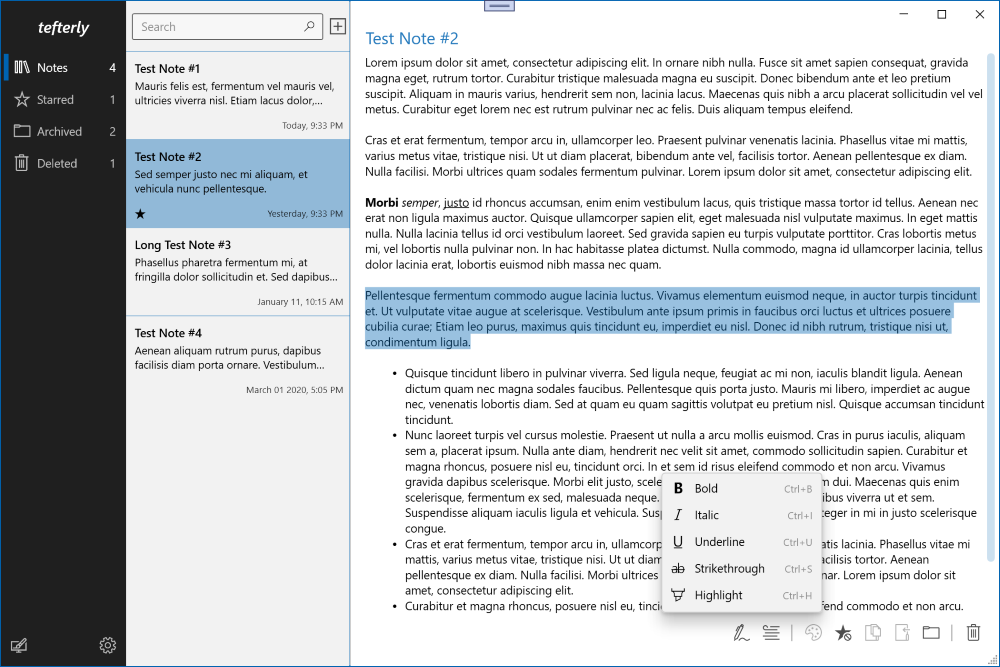
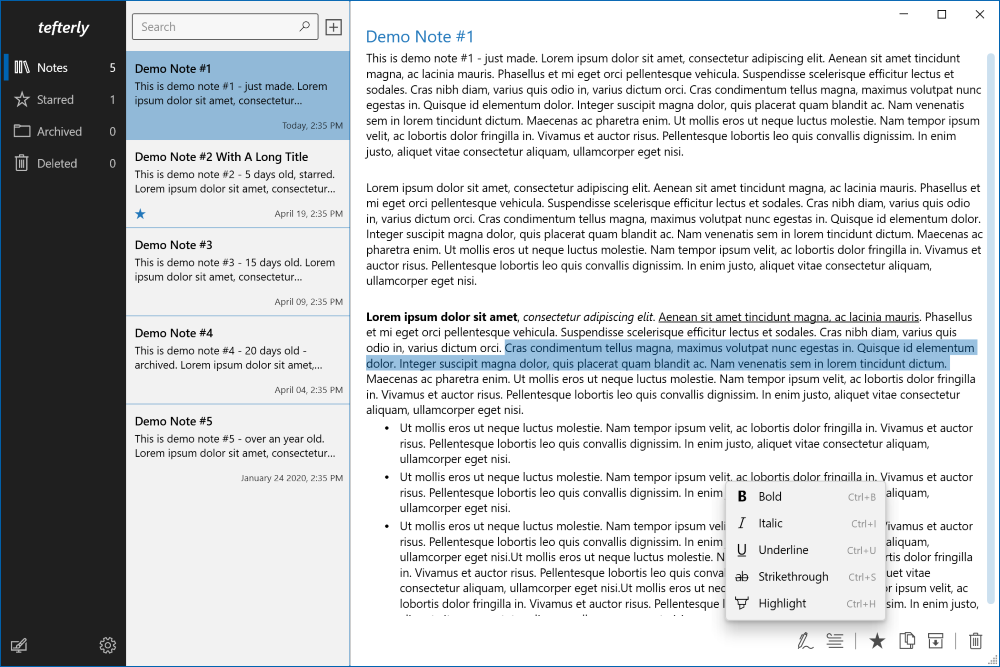
All note actions implemented

diff --git a/Modules/Tefterly.Modules.Note/Views/Note.xaml b/Modules/Tefterly.Modules.Note/Views/Note.xaml
@@ -211,8 +211,17 @@
 
             <ui:AppBarSeparator Margin="-12,0,-9,0" />
 
-            <Button ToolTip="Delete note" Style="{DynamicResource ChromelessButton}">
-                <ui:FontIcon Glyph="&#xE74D;" />
+            <Button ToolTip="{Binding CurrentNote.IsDeleted, Converter={converters:BooleanToIconStateConverter TrueValue='Restore note', FalseValue='Delete note'}}"
+                    Style="{DynamicResource ChromelessButton}" Command="{Binding DeleteNoteCommand}">
+                <ui:PathIcon Data="{Binding CurrentNote.IsDeleted, Converter={converters:BooleanToIconStateConverter
+                    TrueValue='M17.5 3.75 16.25 3.75 16.25 18.125C16.25 18.3854 16.2012 18.6296 16.1035 18.8574C16.0059 19.0853 15.8724 19.2839 15.7031 19.4531C15.5339 19.6224 15.3353 19.7559 15.1074 19.8535C14.8796 19.9512 14.6354 20 14.375 20L4.375 20C4.1146 20 3.8704 19.9512 3.6426 19.8535C3.4147 19.7559 3.2161 19.6224 3.0469 19.4531C2.8776 19.2839 2.7441 19.0853 2.6465 18.8574C2.5488 18.6296 2.5 18.3854 2.5 18.125L2.5 3.75 1.25 3.75 1.25 2.5 6.25 2.5 6.25 1.25C6.25 1.0742 6.2826.9115 6.3477.7617C6.4128.612 6.5023.4801 6.6162.3662C6.7301.2523 6.862.1628 7.0117.0977C7.1615.0326 7.3242 0 7.5 0L11.25 0C11.4258 0 11.5885.0326 11.7383.0977C11.888.1628 12.0199.2523 12.1338.3662C12.2477.4801 12.3372.612 12.4023.7617C12.4674.9115 12.5 1.0742 12.5 1.25L12.5 2.5 17.5 2.5ZM7.5 2.5 11.25 2.5 11.25 1.25 7.5 1.25ZM15 3.75 3.75 3.75 3.75 18.125C3.75 18.2943 3.8118 18.4408 3.9355 18.5645C4.0592 18.6882 4.2057 18.75 4.375 18.75L14.375 18.75C14.5443 18.75 14.6908 18.6882 14.8145 18.5645C14.9382 18.4408 15 18.2943 15 18.125ZM9.4 7 6 11 13 11ZM8 14H11V11L8 11ZZ',
+                    FalseValue='M17.5 3.75 16.25 3.75 16.25 18.125C16.25 18.3854 16.2012 18.6296 16.1035 18.8574C16.0059 19.0853 15.8724 19.2839 15.7031 19.4531C15.5339 19.6224 15.3353 19.7559 15.1074 19.8535C14.8796 19.9512 14.6354 20 14.375 20L4.375 20C4.1146 20 3.8704 19.9512 3.6426 19.8535C3.4147 19.7559 3.2161 19.6224 3.0469 19.4531C2.8776 19.2839 2.7441 19.0853 2.6465 18.8574C2.5488 18.6296 2.5 18.3854 2.5 18.125L2.5 3.75 1.25 3.75 1.25 2.5 6.25 2.5 6.25 1.25C6.25 1.0742 6.2826.9115 6.3477.7617C6.4128.612 6.5023.4801 6.6162.3662C6.7301.2523 6.862.1628 7.0117.0977C7.1615.0326 7.3242 0 7.5 0L11.25 0C11.4258 0 11.5885.0326 11.7383.0977C11.888.1628 12.0199.2523 12.1338.3662C12.2477.4801 12.3372.612 12.4023.7617C12.4674.9115 12.5 1.0742 12.5 1.25L12.5 2.5 17.5 2.5ZM7.5 2.5 11.25 2.5 11.25 1.25 7.5 1.25ZM15 3.75 3.75 3.75 3.75 18.125C3.75 18.2943 3.8118 18.4408 3.9355 18.5645C4.0592 18.6882 4.2057 18.75 4.375 18.75L14.375 18.75C14.5443 18.75 14.6908 18.6882 14.8145 18.5645C14.9382 18.4408 15 18.2943 15 18.125ZM7.5 16.25 6.25 16.25 6.25 6.25 7.5 6.25ZM10 16.25 8.75 16.25 8.75 6.25 10 6.25ZM12.5 16.25 11.25 16.25 11.25 6.25 12.5 6.25Z'}}" />
+            </Button>
+
+            <Button ToolTip="Permanently delete note"
+                    Visibility="{Binding CurrentNote.IsDeleted, Converter={StaticResource BooleanToVisibilityConverter}}"
+                    Style="{DynamicResource ChromelessButton}" Command="{Binding PermanentlyDeleteNoteCommand}">
+                <ui:PathIcon Data="M17.5 3.75 16.25 3.75 16.25 18.125C16.25 18.3854 16.2012 18.6296 16.1035 18.8574C16.0059 19.0853 15.8724 19.2839 15.7031 19.4531C15.5339 19.6224 15.3353 19.7559 15.1074 19.8535C14.8796 19.9512 14.6354 20 14.375 20L4.375 20C4.1146 20 3.8704 19.9512 3.6426 19.8535C3.4147 19.7559 3.2161 19.6224 3.0469 19.4531C2.8776 19.2839 2.7441 19.0853 2.6465 18.8574C2.5488 18.6296 2.5 18.3854 2.5 18.125L2.5 3.75 1.25 3.75 1.25 2.5 6.25 2.5 6.25 1.25C6.25 1.0742 6.2826.9115 6.3477.7617C6.4128.612 6.5023.4801 6.6162.3662C6.7301.2523 6.862.1628 7.0117.0977C7.1615.0326 7.3242 0 7.5 0L11.25 0C11.4258 0 11.5885.0326 11.7383.0977C11.888.1628 12.0199.2523 12.1338.3662C12.2477.4801 12.3372.612 12.4023.7617C12.4674.9115 12.5 1.0742 12.5 1.25L12.5 2.5 17.5 2.5ZM7.5 2.5 11.25 2.5 11.25 1.25 7.5 1.25ZM15 3.75 3.75 3.75 3.75 18.125C3.75 18.2943 3.8118 18.4408 3.9355 18.5645C4.0592 18.6882 4.2057 18.75 4.375 18.75L14.375 18.75C14.5443 18.75 14.6908 18.6882 14.8145 18.5645C14.9382 18.4408 15 18.2943 15 18.125ZM13.25 16 12 16 6 6 7.25 6ZZM7.25 16 6 16 12 6 13.25 6Z" />
             </Button>
 
         </ui:SimpleStackPanel>

diff --git a/Modules/Tefterly.Modules.Notes/Views/Notes.xaml b/Modules/Tefterly.Modules.Notes/Views/Notes.xaml
@@ -32,7 +32,7 @@
                     <StackPanel Orientation="Horizontal" VerticalAlignment="Bottom"
                                 HorizontalAlignment="Left" Grid.Column="0" Grid.Row="2">
                         <ContentControl Visibility="{Binding IsStarred, Converter={StaticResource BooleanToVisibilityConverter}}"
-                                        IsHitTestVisible="False" Margin="0,0,9,0">
+                                        IsHitTestVisible="False" Margin="0,0,9,0" Foreground="{DynamicResource SystemControlHighlightListAccentVeryHighBrush}">
                             <ui:FontIcon Glyph="&#xE735;" FontSize="13"/>
                         </ContentControl>
                         <Rectangle Width="11" Height="11" Margin="0,1,0,0"

diff --git a/Modules/Tefterly.Modules.Note/ViewModels/NoteViewModel.cs b/Modules/Tefterly.Modules.Note/ViewModels/NoteViewModel.cs
@@ -1,4 +1,5 @@
-using Prism.Commands;
+using ModernWpf.Controls;
+using Prism.Commands;
 using Prism.Events;
 using Prism.Mvvm;
 using Prism.Regions;
@@ -48,6 +49,8 @@ namespace Tefterly.Modules.Note.ViewModels
         public DelegateCommand MarkNoteAsStarredCommand { get; set; }
         public DelegateCommand DuplicateNoteCommand { get; set; }
         public DelegateCommand MarkNoteAsArchivedCommand { get; set; }
+        public DelegateCommand DeleteNoteCommand { get; set; }
+        public DelegateCommand PermanentlyDeleteNoteCommand { get; set; }
 
         public NoteViewModel(INoteService noteService, IEventAggregator eventAggregator)
         {
@@ -56,9 +59,11 @@ namespace Tefterly.Modules.Note.ViewModels
             _eventAggregator = eventAggregator;
 
             // attach all commands
-            MarkNoteAsStarredCommand = new DelegateCommand(() => ChangeNotebookCategory(NotebookCategories.Starred));
+            MarkNoteAsStarredCommand = new DelegateCommand(() => ExecuteChangeNotebookCategory(NotebookCategories.Starred));
             DuplicateNoteCommand = new DelegateCommand(() => ExecuteDuplicateNoteCommand());
-            MarkNoteAsArchivedCommand = new DelegateCommand(() => ChangeNotebookCategory(NotebookCategories.Archived));
+            MarkNoteAsArchivedCommand = new DelegateCommand(() => ExecuteChangeNotebookCategory(NotebookCategories.Archived));
+            DeleteNoteCommand = new DelegateCommand(() => ExecuteChangeNotebookCategory(NotebookCategories.Deleted));
+            PermanentlyDeleteNoteCommand = new DelegateCommand(() => ExecutePermanentlyDeleteNoteCommand());
         }
 
         private void LoadNote(Guid noteId)
@@ -81,7 +86,7 @@ namespace Tefterly.Modules.Note.ViewModels
                 ShowNoteComponents = false;
         }
 
-        private void ChangeNotebookCategory(Guid notebookCategory)
+        private void ExecuteChangeNotebookCategory(Guid notebookCategory)
         {
             if (CurrentNote == null || notebookCategory == null)
                 return;
@@ -102,6 +107,31 @@ namespace Tefterly.Modules.Note.ViewModels
 
             if (_noteService.DuplicateNote(CurrentNote.Id) == true)
                 _eventAggregator.GetEvent<NoteChangedEvent>().Publish(String.Empty);
+        }
+
+        private async void ExecutePermanentlyDeleteNoteCommand()
+        {
+            if (CurrentNote == null)
+                return;
+
+            ContentDialog dialog = new ContentDialog
+            {
+                Title="Permanently delete note",
+                PrimaryButtonText="Yes", 
+                CloseButtonText ="No",
+                DefaultButton = ContentDialogButton.Close,
+                Content="Are you sure you want to delete this note?"
+                            + Environment.NewLine
+                            + Environment.NewLine
+                            + "This action cannot be undone."
+            };
+
+            ContentDialogResult result = await dialog.ShowAsync();
+            if (result == ContentDialogResult.Primary)
+            {
+                if (_noteService.DeleteNote(CurrentNote.Id) == true)
+                    _eventAggregator.GetEvent<NoteChangedEvent>().Publish(String.Empty);
+            }
         }
 
         #region Navigation Logic

diff --git a/Modules/Tefterly.Modules.Notes/ViewModels/NotesViewModel.cs b/Modules/Tefterly.Modules.Notes/ViewModels/NotesViewModel.cs
@@ -73,6 +73,7 @@ namespace Tefterly.Modules.Notes.ViewModels
         private void LoadNoteList(Guid notebookGategory)
         {
             NoteList = new ObservableCollection<Business.Models.Note>(_noteService.GetNotes(notebookGategory));
+           
             if (NoteList.Count > 0)
             {
                 int selectedNoteIndex = NoteList.IndexOf(SelectedNote);
@@ -84,12 +85,8 @@ namespace Tefterly.Modules.Notes.ViewModels
             else
                 SelectedNote = null; // no notes found in the selected category
 
-            // update the default message if no notes found 
-            ShowAddNoteButton = false;
             ShowNotesNotFoundPanel = (NoteList.Count == 0);
-
-            if (SelectedNotebookCategoryId == NotebookCategories.Default)
-                ShowAddNoteButton = true;
+            ShowAddNoteButton = (SelectedNotebookCategoryId == NotebookCategories.Default);
         }
 
         private void ExecuteNavigation(Business.Models.Note selectedNote)
@@ -111,6 +108,7 @@ namespace Tefterly.Modules.Notes.ViewModels
         public void OnNavigatedTo(NavigationContext navigationContext)
         {
             SelectedNotebookCategoryId = navigationContext.Parameters.GetValue<Guid>("id");
+            SelectedNote = null; // reset selected note on category change
 
             LoadNoteList(SelectedNotebookCategoryId);
         }

diff --git a/Tefterly/ViewModels/MainWindowViewModel.cs b/Tefterly/ViewModels/MainWindowViewModel.cs
@@ -3,7 +3,6 @@ using Prism.Mvvm;
 using Prism.Regions;
 using System;
 using Tefterly.Business;
-using Tefterly.Core;
 using Tefterly.Core.Commands;
 
 namespace Tefterly.ViewModels
@@ -17,18 +16,22 @@ namespace Tefterly.ViewModels
             set { SetProperty(ref _title, value); }
         }
 
+        // services
         private readonly IRegionManager _regionManager;
 
-        private DelegateCommand<NavigationItem> _globalNavigateCommand;
-        public DelegateCommand<NavigationItem> GlobalNavigateCommand => _globalNavigateCommand ?? (_globalNavigateCommand = new DelegateCommand<NavigationItem>(ExecuteGlobalNavigateCommand));
+        // commands
+        public DelegateCommand<NavigationItem> GlobalNavigateCommand { get; set; }
 
         public MainWindowViewModel(IRegionManager regionManager, IApplicationCommands applicationCommands)
         {
             _regionManager = regionManager;
 
+            // attach all commands
+            GlobalNavigateCommand = new DelegateCommand<NavigationItem>((NavigationItem) => ExecuteGlobalNavigateCommand(NavigationItem));
+
             applicationCommands.NavigateCommand.RegisterCommand(GlobalNavigateCommand);
         }
-
+        
         private void ExecuteGlobalNavigateCommand(NavigationItem navigationItem)
         {
             if (navigationItem == null)

diff --git a/Tefterly.Services/NoteService.cs b/Tefterly.Services/NoteService.cs
@@ -27,7 +27,12 @@ namespace Tefterly.Services
             int categoryCount = 0;
 
             if (String.IsNullOrEmpty(category.ToString()) == false)
+            {
                 categoryCount = _notes.Where(p => p.NotebookCategory == category).Count();
+
+                if (category == NotebookCategories.Default) // summary of default + starred categories
+                    categoryCount += _notes.Where(p => p.NotebookCategory == NotebookCategories.Starred).Count();
+            }
 
             return categoryCount;
         }
@@ -88,6 +93,21 @@ namespace Tefterly.Services
                 };
 
                 _notes.Add(newNote);
+
+                success = true;
+            }
+
+            return success;
+        }
+
+        public bool DeleteNote(Guid noteId)
+        {
+            bool success = false;
+            Note targetNote = _notes.Where(p => p.Id == noteId).FirstOrDefault();
+
+            if (targetNote != null)
+            {
+                _notes.Remove(targetNote);
 
                 success = true;
             }

diff --git a/Tefterly.Business/Models/Note.cs b/Tefterly.Business/Models/Note.cs
@@ -57,6 +57,7 @@ namespace Tefterly.Business.Models
                 SetProperty(ref _notebookCategory, value);
                 RaisePropertyChanged("IsStarred");
                 RaisePropertyChanged("IsArchived");
+                RaisePropertyChanged("IsDeleted");
             }
         }
 
@@ -68,6 +69,10 @@ namespace Tefterly.Business.Models
         public bool IsArchived
         {
             get { return NotebookCategory == NotebookCategories.Archived; }
+        }
+        public bool IsDeleted
+        {
+            get { return NotebookCategory == NotebookCategories.Deleted; }
         }
     }
 }

diff --git a/Tefterly.Services/INoteService.cs b/Tefterly.Services/INoteService.cs
@@ -12,5 +12,6 @@ namespace Tefterly.Services
         Note GetNote(Guid noteId);
         bool UpdateNotebookCategory(Guid noteId, Guid category);
         bool DuplicateNote(Guid noteId);
+        bool DeleteNote(Guid noteId);
     }
 }

diff --git a/README.md b/README.md
@@ -10,6 +10,7 @@ Project updates:
 - 04/05/2021 - Note service added, still using data mocks
 - 04/10/2021 - Navigation across notebook/notes/note complete, added flow document bound richtextbox
 - 04/17/2021 - Implemented most of the note actions
+- 04/24/2021 - All note actions implemented
 
 Screenshot:
 <img src="Screenshot.png" alt="Screenshot" width="900"/>
